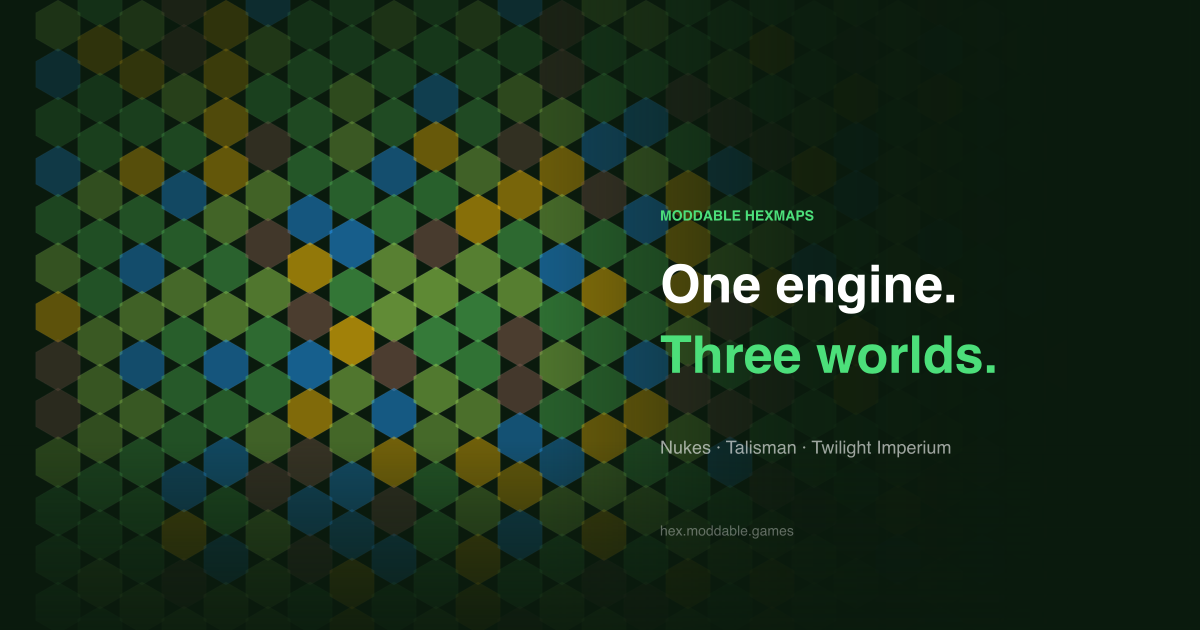
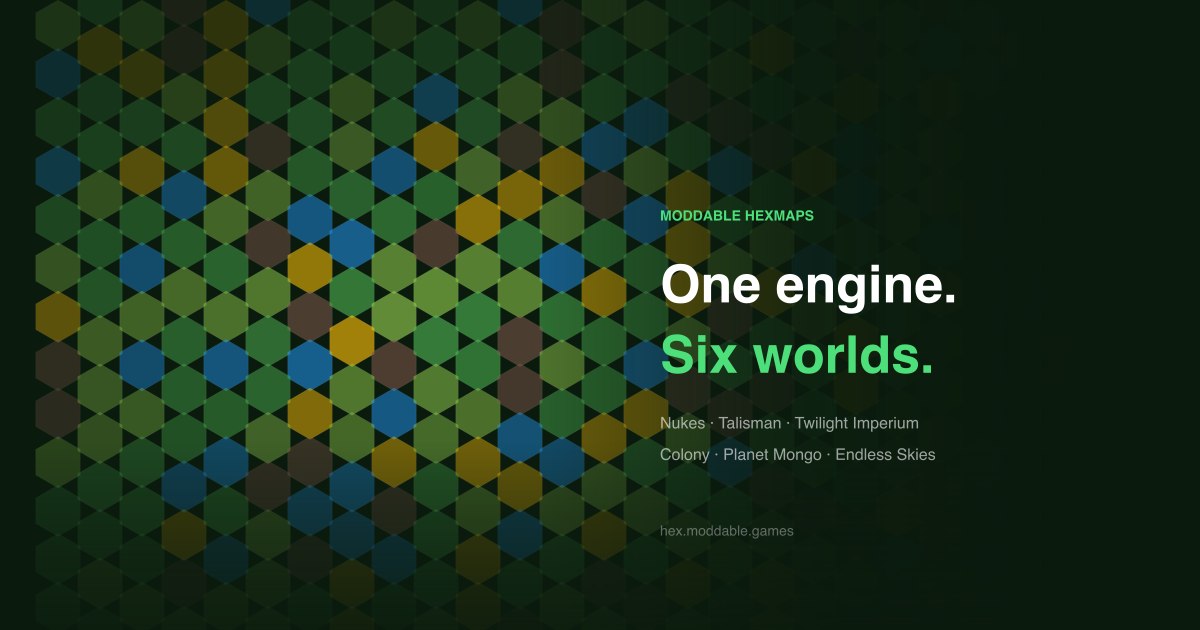
Update OG image to reflect six games, bump to v0.8.3
Social previews were showing stale "Three worlds" branding with only
3 games listed. Regenerated with "Six worlds" and all 6 game names.

Changed region(s): [[0.555, 0.5127, 0.8325, 0.6032], [0.555, 0.6635, 0.8017, 0.754]]

diff --git a/docs/api.html b/docs/api.html
@@ -13,15 +13,15 @@
 <meta name="twitter:card" content="summary_large_image">
 <meta name="twitter:title" content="API Reference — Moddable Hexmaps">
 <meta name="twitter:description" content="Complete API reference for the Moddable Hexmaps engine.">
-<meta property="og:image" content="https://hex.moddable.games/assets/og-image.png?v=0.8.2">
+<meta property="og:image" content="https://hex.moddable.games/assets/og-image.png?v=0.8.3">
 <meta property="og:image:width" content="1200">
 <meta property="og:image:height" content="630">
-<meta name="twitter:image" content="https://hex.moddable.games/assets/og-image.png?v=0.8.2">
+<meta name="twitter:image" content="https://hex.moddable.games/assets/og-image.png?v=0.8.3">
 <link rel="icon" href="../assets/cube.svg" type="image/svg+xml">
-<link rel="stylesheet" href="../css/variables.css?v=0.8.2">
-<link rel="stylesheet" href="../css/shared.css?v=0.8.2">
-<link rel="stylesheet" href="../css/docs.css?v=0.8.2">
-<link rel="stylesheet" href="../css/prism-custom.css?v=0.8.2">
+<link rel="stylesheet" href="../css/variables.css?v=0.8.3">
+<link rel="stylesheet" href="../css/shared.css?v=0.8.3">
+<link rel="stylesheet" href="../css/docs.css?v=0.8.3">
+<link rel="stylesheet" href="../css/prism-custom.css?v=0.8.3">
 <script src="../js/analytics.js" defer></script>
 </head>
 <body>
@@ -576,10 +576,10 @@ claude mcp add --transport stdio moddable-hexmaps node mcp/server.js</code></pre
 
 <footer class="site-footer">
     <a href="https://moddable.games/engines/" target="_blank" rel="noopener"><img src="../assets/moddable-logo-white.png" alt="Moddable Games" class="site-footer__logo"></a>
-    <p>MIT License · <a href="https://github.com/Moddable-Games/moddable-hexmaps" target="_blank" rel="noopener">GitHub</a> · v0.8.2</p>
+    <p>MIT License · <a href="https://github.com/Moddable-Games/moddable-hexmaps" target="_blank" rel="noopener">GitHub</a> · v0.8.3</p>
 </footer>
-<script src="../js/docs-toc.js?v=0.8.2"></script>
-<script src="../js/prism.js?v=0.8.2" data-manual></script>
-<script src="../js/prism-init.js?v=0.8.2"></script>
+<script src="../js/docs-toc.js?v=0.8.3"></script>
+<script src="../js/prism.js?v=0.8.3" data-manual></script>
+<script src="../js/prism-init.js?v=0.8.3"></script>
 </body>
 </html>

diff --git a/docs/guide-colony.html b/docs/guide-colony.html
@@ -13,15 +13,15 @@
 <meta name="twitter:card" content="summary_large_image">
 <meta name="twitter:title" content="Colony Plugin Guide — Moddable Hexmaps">
 <meta name="twitter:description" content="Build a complete Catan-style board generator plugin from scratch.">
-<meta property="og:image" content="https://hex.moddable.games/assets/og-image.png?v=0.8.2">
+<meta property="og:image" content="https://hex.moddable.games/assets/og-image.png?v=0.8.3">
 <meta property="og:image:width" content="1200">
 <meta property="og:image:height" content="630">
-<meta name="twitter:image" content="https://hex.moddable.games/assets/og-image.png?v=0.8.2">
+<meta name="twitter:image" content="https://hex.moddable.games/assets/og-image.png?v=0.8.3">
 <link rel="icon" href="../assets/cube.svg" type="image/svg+xml">
-<link rel="stylesheet" href="../css/variables.css?v=0.8.2">
-<link rel="stylesheet" href="../css/shared.css?v=0.8.2">
-<link rel="stylesheet" href="../css/docs.css?v=0.8.2">
-<link rel="stylesheet" href="../css/prism-custom.css?v=0.8.2">
+<link rel="stylesheet" href="../css/variables.css?v=0.8.3">
+<link rel="stylesheet" href="../css/shared.css?v=0.8.3">
+<link rel="stylesheet" href="../css/docs.css?v=0.8.3">
+<link rel="stylesheet" href="../css/prism-custom.css?v=0.8.3">
 <script src="../js/analytics.js" defer></script>
 </head>
 <body>
@@ -285,10 +285,10 @@ defaultLayout: 'standard',</code></pre>
 
 <footer class="site-footer">
     <a href="https://moddable.games/engines/" target="_blank" rel="noopener"><img src="../assets/moddable-logo-white.png" alt="Moddable Games" class="site-footer__logo"></a>
-    <p>MIT License · <a href="https://github.com/Moddable-Games/moddable-hexmaps" target="_blank" rel="noopener">GitHub</a> · v0.8.2</p>
+    <p>MIT License · <a href="https://github.com/Moddable-Games/moddable-hexmaps" target="_blank" rel="noopener">GitHub</a> · v0.8.3</p>
 </footer>
-<script src="../js/docs-toc.js?v=0.8.2"></script>
-<script src="../js/prism.js?v=0.8.2" data-manual></script>
-<script src="../js/prism-init.js?v=0.8.2"></script>
+<script src="../js/docs-toc.js?v=0.8.3"></script>
+<script src="../js/prism.js?v=0.8.3" data-manual></script>
+<script src="../js/prism-init.js?v=0.8.3"></script>
 </body>
 </html>

diff --git a/docs/guide-svg-integration.html b/docs/guide-svg-integration.html
@@ -13,15 +13,15 @@
 <meta name="twitter:card" content="summary_large_image">
 <meta name="twitter:title" content="SVG Integration Guide — Moddable Hexmaps">
 <meta name="twitter:description" content="Export hex maps as SVG for docs, rulebooks, and external projects.">
-<meta property="og:image" content="https://hex.moddable.games/assets/og-image.png?v=0.8.2">
+<meta property="og:image" content="https://hex.moddable.games/assets/og-image.png?v=0.8.3">
 <meta property="og:image:width" content="1200">
 <meta property="og:image:height" content="630">
-<meta name="twitter:image" content="https://hex.moddable.games/assets/og-image.png?v=0.8.2">
+<meta name="twitter:image" content="https://hex.moddable.games/assets/og-image.png?v=0.8.3">
 <link rel="icon" href="../assets/cube.svg" type="image/svg+xml">
-<link rel="stylesheet" href="../css/variables.css?v=0.8.2">
-<link rel="stylesheet" href="../css/shared.css?v=0.8.2">
-<link rel="stylesheet" href="../css/docs.css?v=0.8.2">
-<link rel="stylesheet" href="../css/prism-custom.css?v=0.8.2">
+<link rel="stylesheet" href="../css/variables.css?v=0.8.3">
+<link rel="stylesheet" href="../css/shared.css?v=0.8.3">
+<link rel="stylesheet" href="../css/docs.css?v=0.8.3">
+<link rel="stylesheet" href="../css/prism-custom.css?v=0.8.3">
 <script src="../js/analytics.js" defer></script>
 </head>
 <body>
@@ -241,10 +241,10 @@ maps.forEach(function(container) {
 
 <footer class="site-footer">
     <a href="https://moddable.games/engines/" target="_blank" rel="noopener"><img src="../assets/moddable-logo-white.png" alt="Moddable Games" class="site-footer__logo"></a>
-    <p>MIT License · <a href="https://github.com/Moddable-Games/moddable-hexmaps" target="_blank" rel="noopener">GitHub</a> · v0.8.2</p>
+    <p>MIT License · <a href="https://github.com/Moddable-Games/moddable-hexmaps" target="_blank" rel="noopener">GitHub</a> · v0.8.3</p>
 </footer>
-<script src="../js/docs-toc.js?v=0.8.2"></script>
-<script src="../js/prism.js?v=0.8.2" data-manual></script>
-<script src="../js/prism-init.js?v=0.8.2"></script>
+<script src="../js/docs-toc.js?v=0.8.3"></script>
+<script src="../js/prism.js?v=0.8.3" data-manual></script>
+<script src="../js/prism-init.js?v=0.8.3"></script>
 </body>
 </html>

diff --git a/docs/guide.html b/docs/guide.html
@@ -13,15 +13,15 @@
 <meta name="twitter:card" content="summary_large_image">
 <meta name="twitter:title" content="Developer Guides — Moddable Hexmaps">
 <meta name="twitter:description" content="Step-by-step developer guides for building hex game plugins and SVG integration.">
-<meta property="og:image" content="https://hex.moddable.games/assets/og-image.png?v=0.8.2">
+<meta property="og:image" content="https://hex.moddable.games/assets/og-image.png?v=0.8.3">
 <meta property="og:image:width" content="1200">
 <meta property="og:image:height" content="630">
-<meta name="twitter:image" content="https://hex.moddable.games/assets/og-image.png?v=0.8.2">
+<meta name="twitter:image" content="https://hex.moddable.games/assets/og-image.png?v=0.8.3">
 <link rel="icon" href="../assets/cube.svg" type="image/svg+xml">
-<link rel="stylesheet" href="../css/variables.css?v=0.8.2">
-<link rel="stylesheet" href="../css/shared.css?v=0.8.2">
-<link rel="stylesheet" href="../css/docs.css?v=0.8.2">
-<link rel="stylesheet" href="../css/prism-custom.css?v=0.8.2">
+<link rel="stylesheet" href="../css/variables.css?v=0.8.3">
+<link rel="stylesheet" href="../css/shared.css?v=0.8.3">
+<link rel="stylesheet" href="../css/docs.css?v=0.8.3">
+<link rel="stylesheet" href="../css/prism-custom.css?v=0.8.3">
 <script src="../js/analytics.js" defer></script>
 </head>
 <body>
@@ -94,10 +94,10 @@
 
 <footer class="site-footer">
     <a href="https://moddable.games/engines/" target="_blank" rel="noopener"><img src="../assets/moddable-logo-white.png" alt="Moddable Games" class="site-footer__logo"></a>
-    <p>MIT License · <a href="https://github.com/Moddable-Games/moddable-hexmaps" target="_blank" rel="noopener">GitHub</a> · v0.8.2</p>
+    <p>MIT License · <a href="https://github.com/Moddable-Games/moddable-hexmaps" target="_blank" rel="noopener">GitHub</a> · v0.8.3</p>
 </footer>
-<script src="../js/docs-toc.js?v=0.8.2"></script>
-<script src="../js/prism.js?v=0.8.2" data-manual></script>
-<script src="../js/prism-init.js?v=0.8.2"></script>
+<script src="../js/docs-toc.js?v=0.8.3"></script>
+<script src="../js/prism.js?v=0.8.3" data-manual></script>
+<script src="../js/prism-init.js?v=0.8.3"></script>
 </body>
 </html>

diff --git a/docs/index.html b/docs/index.html
@@ -13,15 +13,15 @@
 <meta name="twitter:card" content="summary_large_image">
 <meta name="twitter:title" content="Docs — Moddable Hexmaps">
 <meta name="twitter:description" content="Documentation for the Moddable Hexmaps engine. URL parameters, game configs, embedding.">
-<meta property="og:image" content="https://hex.moddable.games/assets/og-image.png?v=0.8.2">
+<meta property="og:image" content="https://hex.moddable.games/assets/og-image.png?v=0.8.3">
 <meta property="og:image:width" content="1200">
 <meta property="og:image:height" content="630">
-<meta name="twitter:image" content="https://hex.moddable.games/assets/og-image.png?v=0.8.2">
+<meta name="twitter:image" content="https://hex.moddable.games/assets/og-image.png?v=0.8.3">
 <link rel="icon" href="../assets/cube.svg" type="image/svg+xml">
-<link rel="stylesheet" href="../css/variables.css?v=0.8.2">
-<link rel="stylesheet" href="../css/shared.css?v=0.8.2">
-<link rel="stylesheet" href="../css/docs.css?v=0.8.2">
-<link rel="stylesheet" href="../css/prism-custom.css?v=0.8.2">
+<link rel="stylesheet" href="../css/variables.css?v=0.8.3">
+<link rel="stylesheet" href="../css/shared.css?v=0.8.3">
+<link rel="stylesheet" href="../css/docs.css?v=0.8.3">
+<link rel="stylesheet" href="../css/prism-custom.css?v=0.8.3">
 <script src="../js/analytics.js" defer></script>
 </head>
 <body>
@@ -267,10 +267,10 @@ img/tiles/               — Committed tile images per game and style</code></pr
 
 <footer class="site-footer">
     <a href="https://moddable.games/engines/" target="_blank" rel="noopener"><img src="../assets/moddable-logo-white.png" alt="Moddable Games" class="site-footer__logo"></a>
-    <p>MIT License · <a href="https://github.com/Moddable-Games/moddable-hexmaps" target="_blank" rel="noopener">GitHub</a> · v0.8.2</p>
+    <p>MIT License · <a href="https://github.com/Moddable-Games/moddable-hexmaps" target="_blank" rel="noopener">GitHub</a> · v0.8.3</p>
 </footer>
-<script src="../js/docs-toc.js?v=0.8.2"></script>
-<script src="../js/prism.js?v=0.8.2" data-manual></script>
-<script src="../js/prism-init.js?v=0.8.2"></script>
+<script src="../js/docs-toc.js?v=0.8.3"></script>
+<script src="../js/prism.js?v=0.8.3" data-manual></script>
+<script src="../js/prism-init.js?v=0.8.3"></script>
 </body>
 </html>

diff --git a/docs/sdk-demo.html b/docs/sdk-demo.html
@@ -13,15 +13,15 @@
     <meta name="twitter:card" content="summary_large_image">
     <meta name="twitter:title" content="SDK Demo — Moddable Hexmaps">
     <meta name="twitter:description" content="Live demo of the Consumer SDK with interactive hex map controllers.">
-    <meta property="og:image" content="https://hex.moddable.games/assets/og-image.png?v=0.8.2">
+    <meta property="og:image" content="https://hex.moddable.games/assets/og-image.png?v=0.8.3">
     <meta property="og:image:width" content="1200">
     <meta property="og:image:height" content="630">
-    <meta name="twitter:image" content="https://hex.moddable.games/assets/og-image.png?v=0.8.2">
+    <meta name="twitter:image" content="https://hex.moddable.games/assets/og-image.png?v=0.8.3">
     <link rel="icon" href="../assets/cube.svg" type="image/svg+xml">
-    <link rel="stylesheet" href="../css/variables.css?v=0.8.2">
-    <link rel="stylesheet" href="../css/shared.css?v=0.8.2">
-    <link rel="stylesheet" href="../css/sdk-demo.css?v=0.8.2">
-    <link rel="stylesheet" href="../css/prism-custom.css?v=0.8.2">
+    <link rel="stylesheet" href="../css/variables.css?v=0.8.3">
+    <link rel="stylesheet" href="../css/shared.css?v=0.8.3">
+    <link rel="stylesheet" href="../css/sdk-demo.css?v=0.8.3">
+    <link rel="stylesheet" href="../css/prism-custom.css?v=0.8.3">
 <script src="../js/analytics.js" defer></script>
 </head>
 <body>
@@ -214,11 +214,11 @@ map.setStyle('kenney');  // re-renders with new tileset, same hexes</code></pre>
 
     <footer class="site-footer">
         <a href="https://moddable.games/engines/" target="_blank" rel="noopener"><img src="../assets/moddable-logo-white.png" alt="Moddable Games" class="site-footer__logo"></a>
-        <p>MIT License · <a href="https://github.com/Moddable-Games/moddable-hexmaps" target="_blank" rel="noopener">GitHub</a> · v0.8.2</p>
+        <p>MIT License · <a href="https://github.com/Moddable-Games/moddable-hexmaps" target="_blank" rel="noopener">GitHub</a> · v0.8.3</p>
     </footer>
 
     <script type="module" src="../js/sdk-demo.js"></script>
-    <script src="../js/prism.js?v=0.8.2" data-manual></script>
-    <script src="../js/prism-init.js?v=0.8.2"></script>
+    <script src="../js/prism.js?v=0.8.3" data-manual></script>
+    <script src="../js/prism-init.js?v=0.8.3"></script>
 </body>
 </html>

diff --git a/index.html b/index.html
@@ -14,13 +14,13 @@
 <meta name="twitter:card" content="summary_large_image">
 <meta name="twitter:title" content="Moddable Hexmaps — One engine, six worlds">
 <meta name="twitter:description" content="Shared hex map engine for board game tools. Generates, renders, and edits hex grids.">
-<meta property="og:image" content="https://hex.moddable.games/assets/og-image.png?v=0.8.2">
+<meta property="og:image" content="https://hex.moddable.games/assets/og-image.png?v=0.8.3">
 <meta property="og:image:width" content="1200">
 <meta property="og:image:height" content="630">
-<meta name="twitter:image" content="https://hex.moddable.games/assets/og-image.png?v=0.8.2">
-<link rel="stylesheet" href="css/variables.css?v=0.8.2">
-<link rel="stylesheet" href="css/shared.css?v=0.8.2">
-<link rel="stylesheet" href="css/home.css?v=0.8.2">
+<meta name="twitter:image" content="https://hex.moddable.games/assets/og-image.png?v=0.8.3">
+<link rel="stylesheet" href="css/variables.css?v=0.8.3">
+<link rel="stylesheet" href="css/shared.css?v=0.8.3">
+<link rel="stylesheet" href="css/home.css?v=0.8.3">
 <script src="js/analytics.js" defer></script>
 </head>
 <body>
@@ -232,11 +232,11 @@ registerGame('mygame', {<br>
 
 <footer class="site-footer">
     <a href="https://moddable.games/engines/" target="_blank" rel="noopener"><img src="assets/moddable-logo-white.png" alt="Moddable Games" class="site-footer__logo"></a>
-    <p>MIT License · <a href="https://github.com/Moddable-Games/moddable-hexmaps" target="_blank" rel="noopener">GitHub</a> · v0.8.2</p>
+    <p>MIT License · <a href="https://github.com/Moddable-Games/moddable-hexmaps" target="_blank" rel="noopener">GitHub</a> · v0.8.3</p>
 </footer>
 
-<script src="js/dev-tabs.js?v=0.8.2"></script>
-<script src="js/parallax.js?v=0.8.2"></script>
-<script src="js/outbound.js?v=0.8.2"></script>
+<script src="js/dev-tabs.js?v=0.8.3"></script>
+<script src="js/parallax.js?v=0.8.3"></script>
+<script src="js/outbound.js?v=0.8.3"></script>
 </body>
 </html>

diff --git a/scripts/generate-og.js b/scripts/generate-og.js
@@ -1,6 +1,9 @@
-const { createCanvas } = require('canvas');
-const fs = require('fs');
-const path = require('path');
+import { createCanvas } from 'canvas';
+import fs from 'fs';
+import path from 'path';
+import { fileURLToPath } from 'url';
+
+const __dirname = path.dirname(fileURLToPath(import.meta.url));
 
 const WIDTH = 1200;
 const HEIGHT = 630;
@@ -93,11 +96,12 @@ ctx.fillText('One engine.', WIDTH * 0.55, HEIGHT * 0.48);
 
 ctx.fillStyle = '#4cdf7a';
 ctx.font = '700 52px sans-serif';
-ctx.fillText('Three worlds.', WIDTH * 0.55, HEIGHT * 0.56 + 20);
+ctx.fillText('Six worlds.', WIDTH * 0.55, HEIGHT * 0.56 + 20);
 
 ctx.fillStyle = 'rgba(255,255,255,0.6)';
-ctx.font = '400 18px sans-serif';
-ctx.fillText('Nukes · Talisman · Twilight Imperium', WIDTH * 0.55, HEIGHT * 0.72);
+ctx.font = '400 16px sans-serif';
+ctx.fillText('Nukes · Talisman · Twilight Imperium', WIDTH * 0.55, HEIGHT * 0.68);
+ctx.fillText('Colony · Planet Mongo · Endless Skies', WIDTH * 0.55, HEIGHT * 0.73);
 
 ctx.fillStyle = 'rgba(255,255,255,0.35)';
 ctx.font = '400 14px sans-serif';

diff --git a/generate/index.html b/generate/index.html
@@ -13,14 +13,14 @@
     <meta name="twitter:card" content="summary_large_image">
     <meta name="twitter:title" content="Generate — Moddable Hexmaps">
     <meta name="twitter:description" content="Generate randomised hex maps for Nukes, Talisman, Twilight Imperium, Colony, Planet Mongo, and Endless Skies.">
-    <meta property="og:image" content="https://hex.moddable.games/assets/og-image.png?v=0.8.2">
+    <meta property="og:image" content="https://hex.moddable.games/assets/og-image.png?v=0.8.3">
     <meta property="og:image:width" content="1200">
     <meta property="og:image:height" content="630">
-    <meta name="twitter:image" content="https://hex.moddable.games/assets/og-image.png?v=0.8.2">
+    <meta name="twitter:image" content="https://hex.moddable.games/assets/og-image.png?v=0.8.3">
     <link rel="icon" href="../assets/cube.svg" type="image/svg+xml">
-    <link rel="stylesheet" href="../css/variables.css?v=0.8.2">
-    <link rel="stylesheet" href="../css/shared.css?v=0.8.2">
-    <link rel="stylesheet" href="../css/style.css?v=0.8.2">
+    <link rel="stylesheet" href="../css/variables.css?v=0.8.3">
+    <link rel="stylesheet" href="../css/shared.css?v=0.8.3">
+    <link rel="stylesheet" href="../css/style.css?v=0.8.3">
 <script src="../js/analytics.js" defer></script>
 </head>
 <body>
@@ -124,10 +124,10 @@
 
 <footer class="site-footer">
     <a href="https://moddable.games/engines/" target="_blank" rel="noopener"><img src="../assets/moddable-logo-white.png" alt="Moddable Games" class="site-footer__logo"></a>
-    <p>MIT License · <a href="https://github.com/Moddable-Games/moddable-hexmaps" target="_blank" rel="noopener">GitHub</a> · v0.8.2</p>
+    <p>MIT License · <a href="https://github.com/Moddable-Games/moddable-hexmaps" target="_blank" rel="noopener">GitHub</a> · v0.8.3</p>
 </footer>
 
-<script type="module" src="../js/app.js?v=0.8.2"></script>
+<script type="module" src="../js/app.js?v=0.8.3"></script>
 
 </body>
 </html>